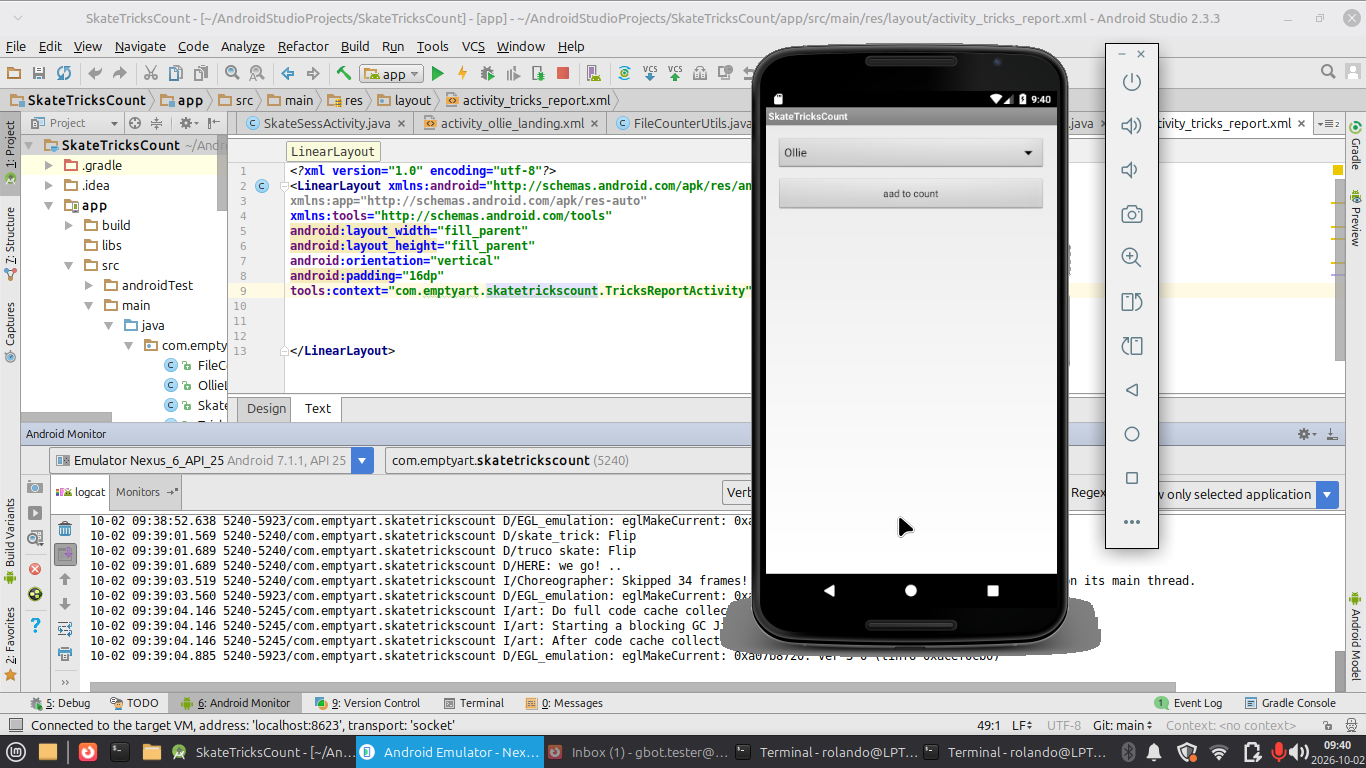
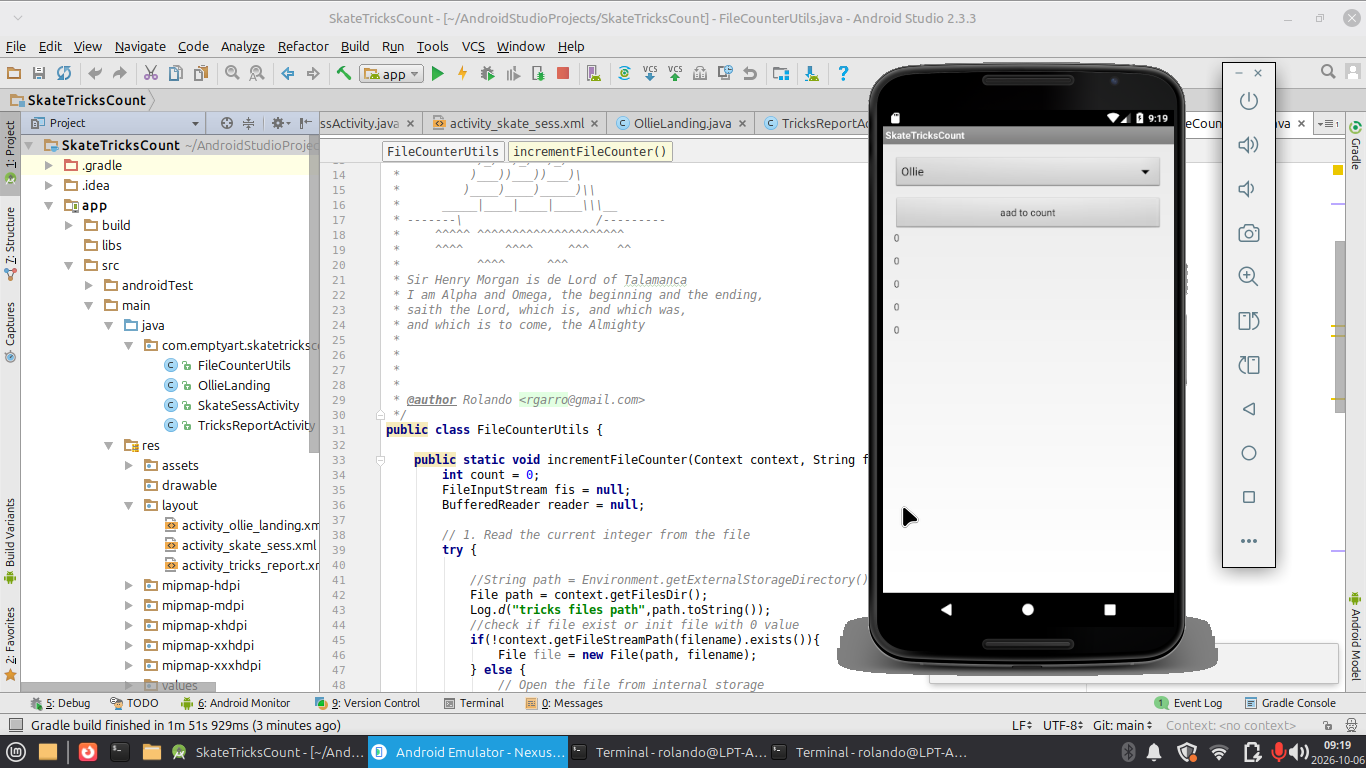
mataron a Tapon y a elvis mara en Ciudad Sandino ...

Changed region(s): [[0.0, 0.0, 1.0, 1.0], [0.9839, 0.9688, 1.0, 1.0]]

diff --git a/README.md b/README.md
@@ -3,6 +3,7 @@
 Plain text tricks counter app,
 the ollies are supposed to land on the next number, number 9 ....
 
+Download for Android  https://github.com/rgarro/SkateTricksCount/raw/master/app-debug.apk  
 
 [![Chet Baker you are mine .... ](https://raw.githubusercontent.com/rgarro/SkateTricksCount/refs/heads/main/screen.png)
 
